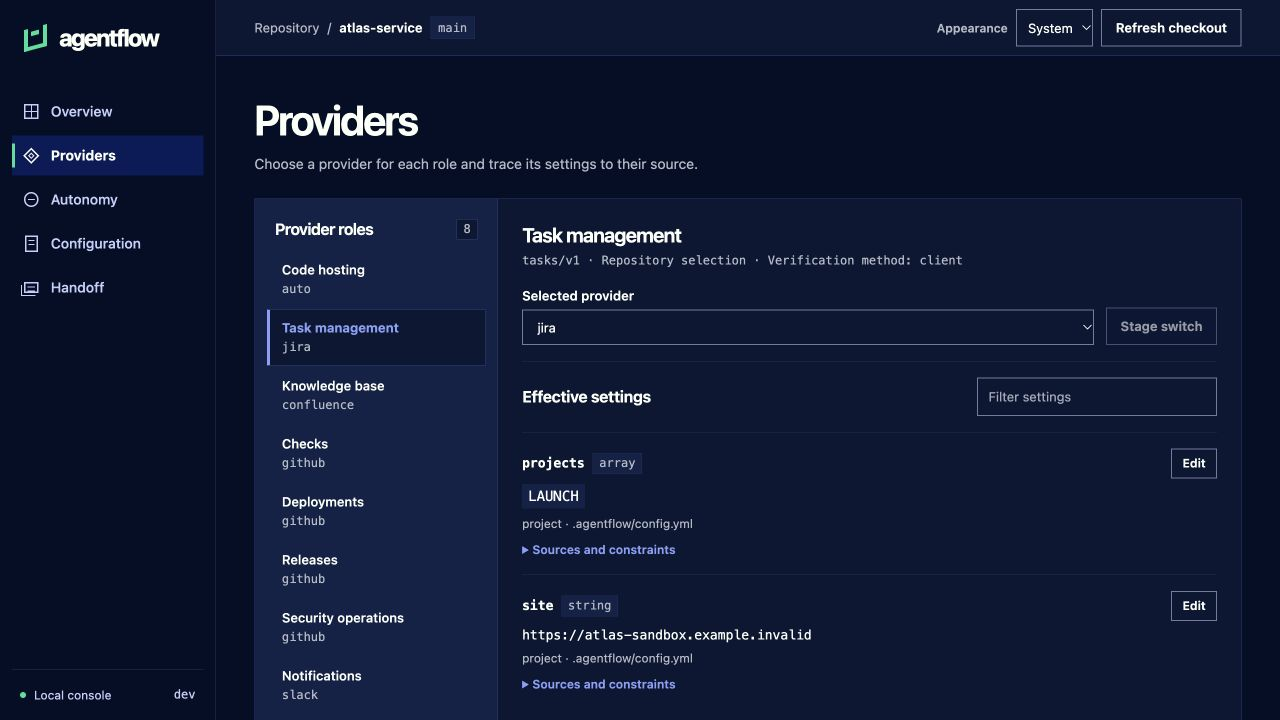
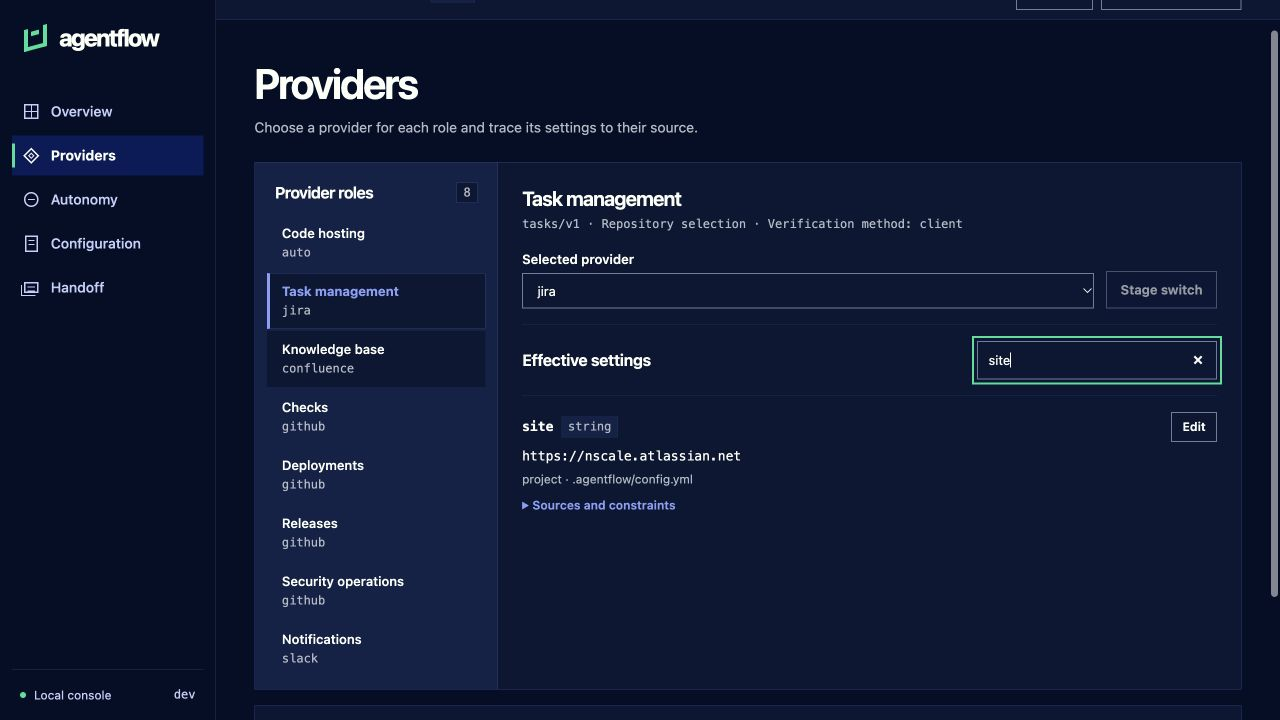
docs: use nscale urls in demo captures

diff --git a/docs/launch/jira-confluence.md b/docs/launch/jira-confluence.md
@@ -8,6 +8,6 @@ Use an approved sandbox GitHub repository, Jira project, and Confluence space. T
 4. Have an authorized engineer merge the sandbox PR. After the configured release workflow publishes, inspect the release with `agentflow release get TAG`. Compare its revision and artifacts with the expected merged work. Confirm provider transitions separately in Jira when they are enabled.
 5. Read the Confluence page and record its current revision with `agentflow docs get confluence/LAUNCH/42 --json`. Prepare the new text using `agentflow docs publish` with the page reference, title, body, expected revision, and a unique operation ID. Review the destination and apply the approved update. Reopen the page to verify the result. If the page changed before approval, reread its revision and prepare a fresh preview.
 
-Repeat the read, preview, and approval portions in Claude Code Desktop and Codex. Record the provider transport that handled each step and use the CLI for any handoff that the agent client delegates. Capture only sandbox data and omit any sign-in URLs, credentials, approval tokens, local account paths, or private browser tabs.
+Repeat the read, preview, and approval portions in Claude Code Desktop and Codex. Record the provider transport that handled each step and use the CLI for any handoff that the agent client delegates. Capture only sandbox data. Show Nscale-branded sample URLs in launch assets, and keep the actual service endpoints in the internal rehearsal records. Omit sign-in URLs, credentials, approval tokens, local account paths, and private browser tabs.
 
 For a different task or knowledge stack, use the [compatibility guide](compatibility.md) and the [GitHub Issues workflow](../knowledge/engineering/guides/task-workflow.md). Keep release verification separate from the Confluence update so the demonstration works with an explicit approval.
